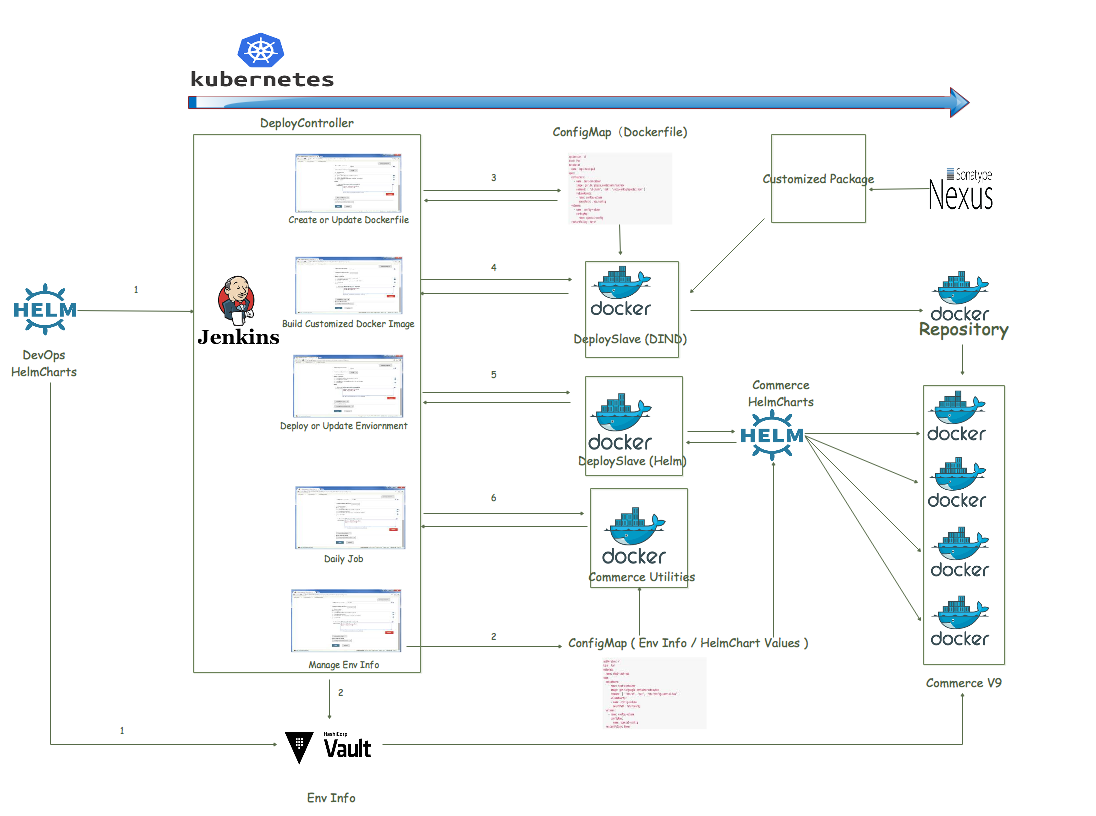
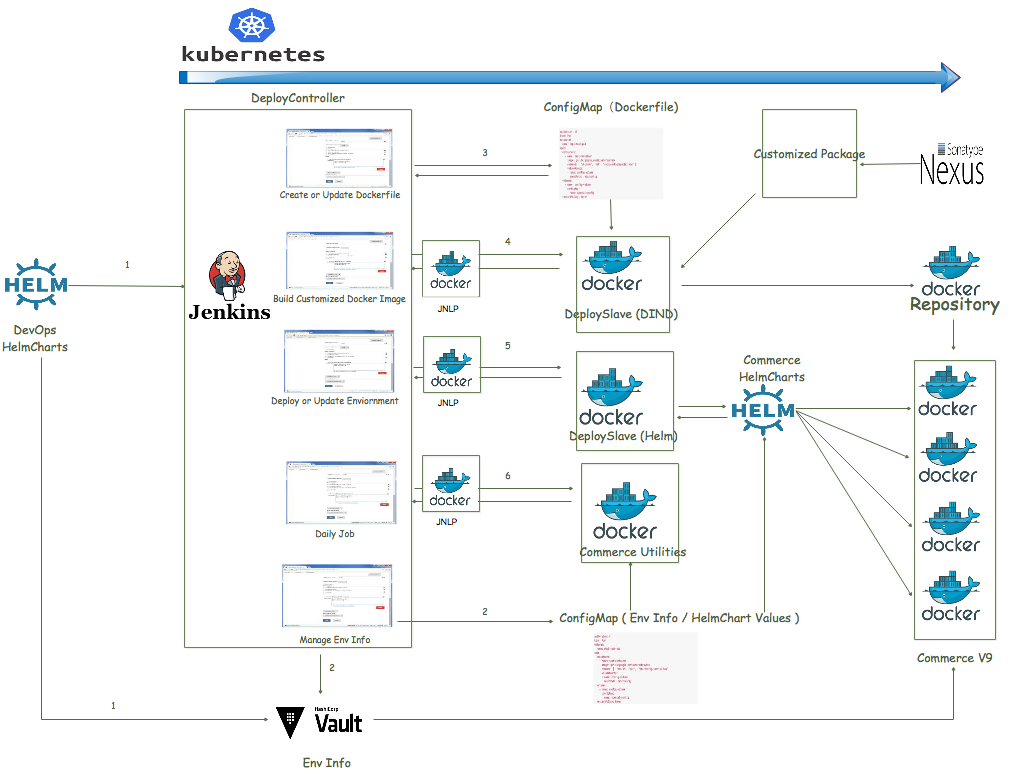
update document for Logging Solution

diff --git a/doc/LoggingSolution.md b/doc/LoggingSolution.md
@@ -1,0 +1,123 @@
+
+## Logging solution for WebSphere Commerce on Kubernetes ##
+
+ This topic demonstrates how to use ELK (Elastic) stack, a popular open-source logging platform, as a sample logging solution for WebSphere Commerce deployment utilities. In your production environment, you can also leverage other commercial logging solutions to meet your business needs.
+ In this sample ELK solution, the following components are included:
+ * **ElasticSearch**: Is an open-source, distributed, RESTful, JSON-based search engine.
+ * **Kibana**:  Allows you to visualize your Elasticsearch data and navigate the ELK Stack.
+ * **Filebeat**: Offers a lightweight way to forward and centralize logs and files.
+
+For more information about the ELK stack, see [the Elastic website](https://www.elastic.co/elk-stack).
+
+**Note**: This sample solution leverages the following configuration files provided in the project under the `utilities/filebeat/` directory.
+:
+* `Entrypoint.sh`
+* `filebeat.yml`
+* `dockerfile`
+
+The following diagram shows the architecture of the sample solution. Each WebSphere Commerce Docker container works with a 'sidecar' Filebeat container to collect logs in real time. By leveraging the shared volume capability of pod, Filebeat can access the log files in the shared volume of WebSphere Commerce directly, and then transfer the logs (in JSON format) to the ElasticSearch system. After that you can view the logs in the Kibana UI. <br/>
+<img src="./images/WC_K8S_ELK.png" width = "800" height = "450" align=center />
+
+After Kubernetes launches all the containers, you can check the logs in the Kinaba UI through `http://<Kibana_Host>:5601`, as shown below.<br/>
+  <img src="./images/Kibana1.png" width = "800" height = "450" align=center /><br/>
+
+  The message field in the Kibana UI includes a log message, as shown below.<br/>
+<img src="./images/KibanaMessageField.png" width = "600" height = "335" align=center /><br/>
+  <what we customize>
+
+## Building customized Filebeat Docker image##
+
+To simplify the deployment process in Kubernetes, in the sample solution, we put the customized Filebeat configuration file `filebeat.yml` and the Docker initialization file `Entrypoint.sh` in the customized Filebeat Docker image. In this way, you only need to build the customized image once, and it can apply to varies WebSphere Commerce container components, such as Search, Foundation, etc. by pointing to different `filebeat.yml` in the `Entrypoint.sh` script. You can find the sample file in the project under the `utilities/filebeat/` directory.
+
+
+To do so, pull the Filebeat Docker image from the official repository (you'd better have a local repository), modify the sample dockerfile, `Entryponit.sh` and `Filebeat.yml` based on your needs, and build the customized Filebeat image. <br/>
+
+Sample Dockerfile
+<pre>
+FROM filebeat:6.3.0
+COPY Entrypoint.sh /etc/
+COPY filebeat_search_store.yml /etc/
+COPY filebeat_ts_app.yml /etc/
+COPY filebeat_ts_web.yml /etc/
+USER root
+ENTRYPOINT ["/etc/Entrypoint.sh"]
+</pre>
+
+Build customized filebeat image
+<pre>
+docker build -f &lt;sample_dockerfile&gt; -t &lt;repository&gt;:&lt;tag&gt; .
+</pre>
+
+<!--
+<img src="https://github.com/IBM/wc-devops-utilities/raw/draftdoc/doc/images/Build_Filebeat_Image.png" width = "600" height = "135" align=center /><br/>
+-->
+  ### Customizing `filebeat.yml` ###
+
+  To get rid of the exception stack split into multiple messages in the ElasticSearch, add the following to the `filebeat.yml` file:
+  <pre>
+  multiline.pattern: '^\['
+  multiline.negate: true
+  multiline.match: after
+  </pre>
+
+  To add a new field to identify and filter logs by container types, add the following to the `filebeat.yml` file:
+  <pre>
+    fields:
+      containerType: search
+  </pre>
+  <img src="./images/ContainerType.png" width = "300" height = "200" align=center /><br/>
+
+  For more information about the `filebeat.yml` configuration, refer to:<br/>
+  https://www.elastic.co/guide/en/beats/filebeat/current/configuring-howto-filebeat.html.
+
+  ### Customizing `Entrypoint.sh` ###
+
+  `Entrypoint.sh`gets the input of ‘-indexName' and  '-targetELK' parameters from Kubernetes, updates the `filebeat.yml` configuration file accordingly, and then uses the container specific `filebeat.yml` files (for search, tx, etc.) to launch the Filebeat service.<br/>
+  For more details, refer to the Entrypoint.sh script.<br/>
+
+  ### Customizing the dockerfile ###
+
+  For detailed instructions, see the Docker official guide:<br/>
+  https://docs.docker.com/engine/reference/builder/#usage
+
+## Enabling the logging solution during WebSphere Commerce deployment ##
+To enable the logging solution when you deploy WebSphere Commerce V9, follow these steps.
+### Prerequisite ###
+Before you enable the logging solution, you need to set up ElasticSearch and Kibana.
+*  To install the ElasticSearch (or ElasticSearch cluster), follow the official installation guide Based on your business requirement, consider using the ElasticSearch cluster if the logging throughput is huge:<br/>
+  https://www.elastic.co/guide/en/elasticsearch/reference/current/_installation.html<br/>
+  https://www.elastic.co/guide/en/elasticsearch/reference/current/install-elasticsearch.html
+* To install Kibana, follow the official installation guide:<br/>
+  https://www.elastic.co/guide/en/kibana/current/install.html
+
+ ### Procedure ###
+
+ To enable the logging solution, launch the Filebeat container alone with the WebSphere Commerce container.
+
+ You need to change the following flags in the parameters of the DeployWCSCloud_Base job. For details of the DeployWCSCloud_Base job, see [Using WebSphere Commerce Deployment Utilities](./DeployControllerDesign.md).
+ * <B>FileBeat.Enable</B>: Change this flag to 'true' to enable Filebeat container alone with the WebSphere Commerce container.
+ * <B>FileBeat.ELKServer</B>: Change this flag to your ElasticSearch server (or the the Master node of your ElasticSearch cluster).
+
+
+ The following screen shot shows a sample deployment job.<br/><br/>
+ <img src="./images/Enable_Filebat&ELK.png" width = "450" height = "400" align=center /><br/>
+
+
+  ### Reference: The out-of-the-box behavior of the sample logging solution ###
+
+  <img src="./images/Enable_Logging_logic.png" width = "500" height = "250" align=center /><br/>
+
+  Using the flag 'FileBeat.Enable' in the Jenkins HelmChart_values field to contral enable the filebeat container alone with commerce container or not.<br/>
+
+
+You can launch the Filebeat container alone with the WebSphere Commerce container using the build-in `filebeat.yml` file, which is built-in with the customized Filebeat image, or using a customized `filebeat.yml` file. If a customized `filebeat.yml` file is specfied, Kubernets will use the customized file  and ingore the built-in file.
+
+You can specify the customized `filebeat.yml` file by creating Kubernetes configmaps. For example, define a specific Filebeat configuration file for the store container. Here are the steps:<br/>
+1. Define the customized Filebeat configuration file (`filebeat-cus.yml`).
+2. Create a configmap based on the customized Filebeat configuration file.
+  <pre>
+  kubectl create configmap filebeat-config-crs-app --from-file filebeat-cus.yml
+  </pre>
+3. Update the configmap in `values.yaml`. Set the value 'Values.Crsapp.FileBeatConfigMap' to 'filebeat-config-crs-app'.
+
+The configmap will mount to the `/etc/filebeat/` folder of the Filebeat container. The container will start with the configuration file `/etc/filebeat/filebeat-cus.yml`.

diff --git a/README.md b/README.md
@@ -10,12 +10,14 @@ WebSphere Commerce DevOps Utilities are built and deployed as Docker images, inc
 * DeployController
 * DeploySlave
 * SupportContainer
+* Jenkins Slave Plugin Container
 
 Docker image |  Embedded assets  | Role and description
 ------------- | -------------| -------------
 DeployController | Jenkins/ Pre-defined Jenkins job/ DevOps backend scripts |  A Jenkins-based tool to work as the controller to trigger related jobs and fulfill tasks such as environment deployment and Docker image build
 DeploySlave  | Dockerd / Helm client / DevOps backend scripts | Can be triggered by DeployController to build customized Docker image including your customization package and can then be deployed in the Kubernetes environment  with Helm
 SupportContainer | DevOps backend scripts | Handles Helm pre- and post-deployment hook/ Works as commander to control the startup sequence
+Jenkins Slave Plugin Container | Jenkins Agent | A Jenkins slave using JNLP to establish connection ( You can download it from [jenkinsci/jnlp-slave](https://hub.docker.com/r/jenkinsci/jnlp-slave/)
 
 Vault and Nexus Docker images, by default, are seamlessly integrated with the DevOps Utilities.
 
@@ -27,8 +29,8 @@ In the WebSphere Commerce DevOps utilities:
 
 You can deploy the DevOps Utilities by using Helm Chart. For more information about Helm Chart, see [Commerce DevOps Utilities Helm Charts](https://github.com/IBM/wc-helmchart)
 
-The following diagram shows the components of the WebSphere Commerce using DevOps Utilities.
-  <img src="https://github.com/IBM/wc-devops-utilities/raw/master/doc/images/Overview.png" width = "700" height = "450" alt="Overview" align=center /><br>
+The following diagram shows the components of the WebSphere Commerce using DevOps Utilities.<br>
+  <img src="./doc/images/Overview.png" width = "700" height = "450" alt="Overview" align=center /><br>
 
 <!--## Design ##
 
@@ -50,6 +52,13 @@ Before you run build Docker images, ensure that your machine has Docker (DockerC
 
     **Note**: you can specify the Docker image tag in the following pattern:
         ./BuildDocker.sh deploycontroller:<newtag>
+
+    The `kubernetes/DeployController` folder contains the following files for customization:
+      * `plugins.txt`: Includes New or updated plugin version
+      * `setup/jobs`: Includes pre-defined Jenkins job.
+      * `users/admin/config.xml`: Includes the default admin user information
+      * `config.xml`:Includes global variables for Jenkins
+      * `jenkins.sh`: Includes Jenkins startup logic
 
 2. Go to the `commerce-devops-utilities/kubernetes/DeploySlave` directory, and run the following command to build the DeploySlave Docker image:
 
@@ -76,10 +85,14 @@ Ensure to deploy WebSphere Commerce DevOps Utilities under the `default` Kuberne
 
 After the deployment is completed, you can access the DeployController user interface by logging into `http://IngressIPAddress:31899` with the default user name and password (`admin/admin`), and check the following pre-defined jobs:
 
-<img src="https://github.com/IBM/wc-devops-utilities/raw/master/doc/images/DeployControllerJobList.png" width = "700" height = "450" alt="Overview" align=center /><br>
+<img src="./doc/images/DeployControllerJobList.png" width = "400" height = "550" alt="Overview" align=center /><br>
 
-**Tip**:
- For each job in DeployController, make sure to open the `config` page and click `Save`, so that the Parameter plugin can be loaded.
+**Tip**: <br>
+1. For each job in DeployController, make sure to open the `config` page and click `Save`, so that the Parameter plugin can be loaded.
+
+2. Before you launch Jenkins Job, please make sure you have upload related Docker Image to private Docker Repository
+   As default, Jenkins Job will download Docker Image under "commerce" library with latest tag from private Docker repository which you set in DeployController.
+
 
 ## Using WebSphere Commerce Utilities ##
 
@@ -94,15 +107,9 @@ doc | Includes documents created in Markdown
 utilities/DeployController | Includes the scripts for building DeployController Docker Image
 utilities/DeploySlave | Includes the scripts for building DeploySlave Docker Image
 utilities/DeploySupport | Includes the scripts for building SupportContainer Docker Image
+utilities/Filebeat | Includes scripts to build Filebeat Docker Image for Commerce V9. See [Logging Solution](doc/LoggingSolution.md)
 scripts |  Includes DevOps backend scripts
 
-
-**Note**: The `kubernetes/DeployController` folder contains the following files for customization:
-* `plugins.txt`: Includes New or updated plugin version
-* `setup/jobs`: Includes pre-defined Jenkins job
-* `users/admin/config.xml`: Includes the default admin user information
-* `config.xml`:Includes global variables for Jenkins
-* `jenkins.sh`: Includes Jenkins startup logic
 
 ## Contributing to the project ##
 
